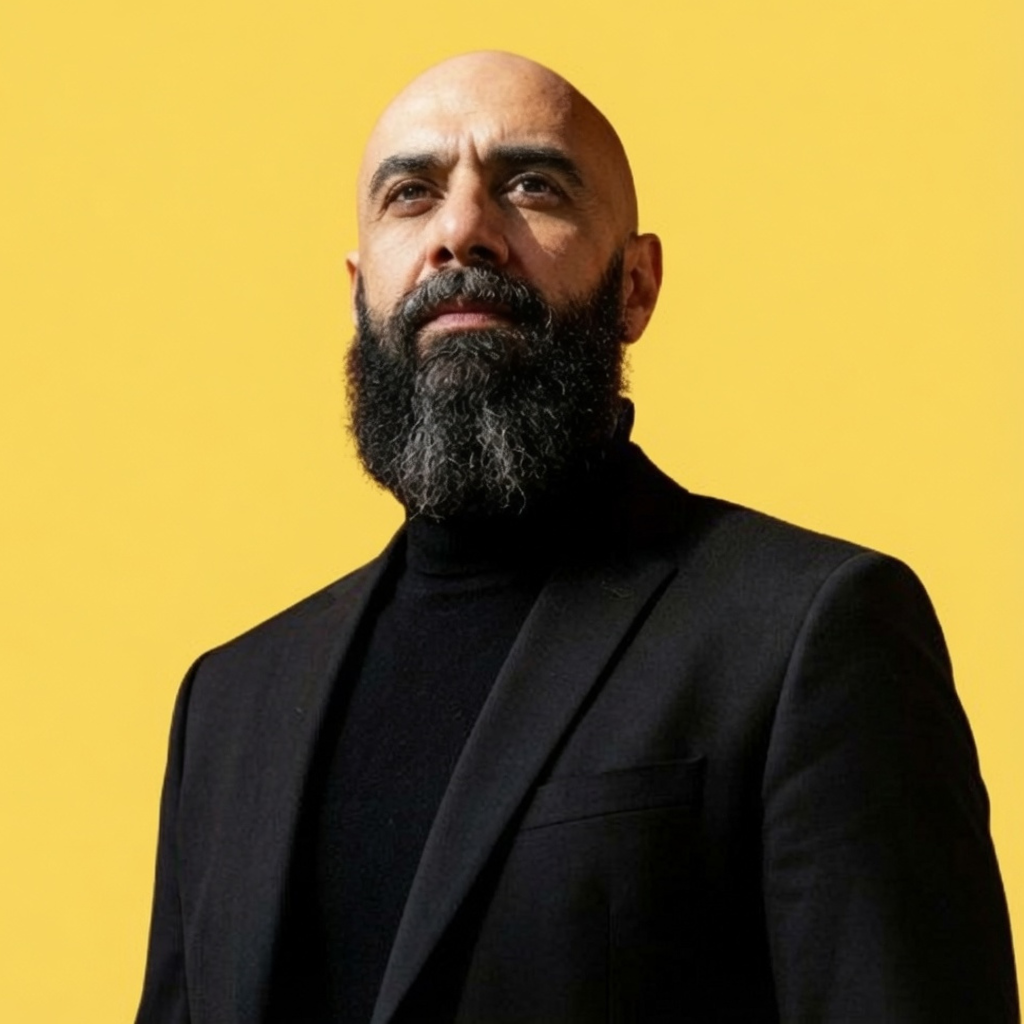
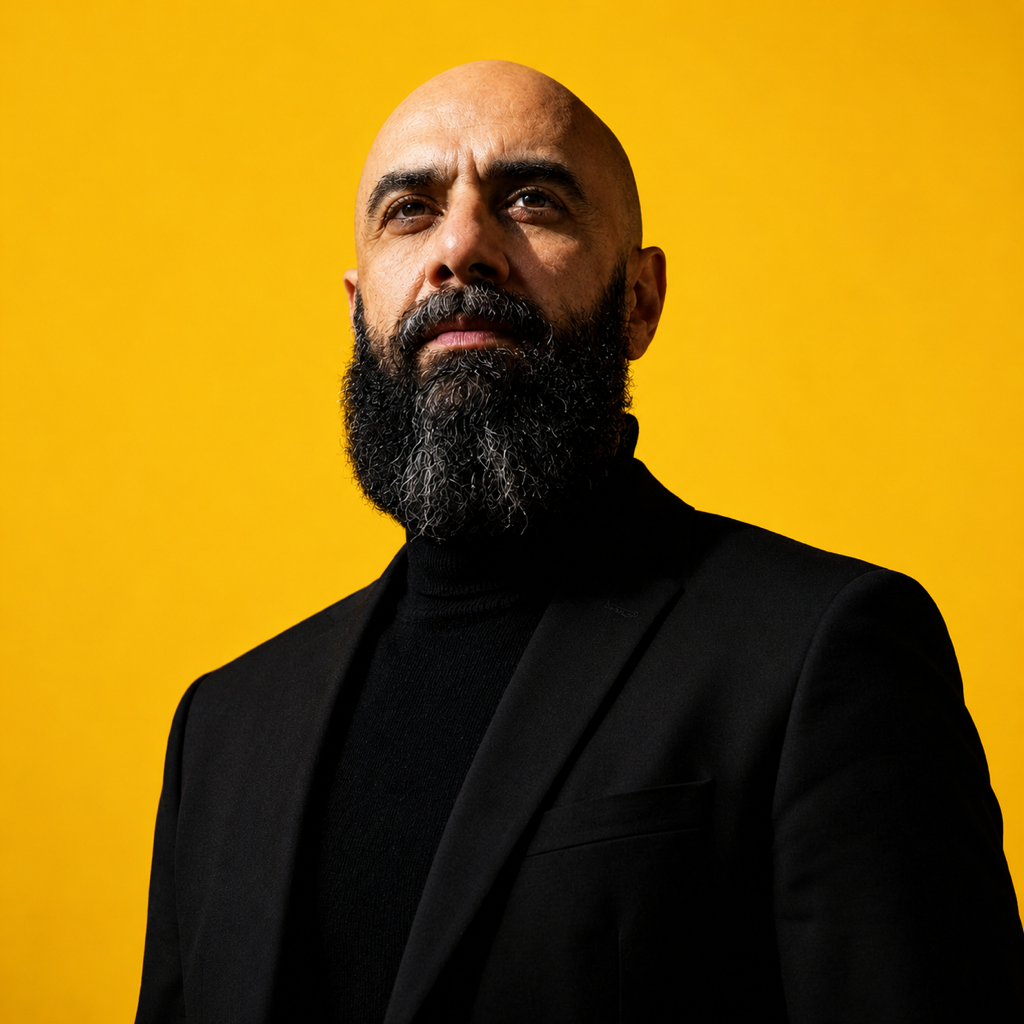
Add missing sameAs identifiers, update profile photo
Goodreads, SoundCloud, YouTube, Instagram, Threads, Facebook added to
Person schema.org sameAs on index and about pages. Profile photo
replaced with 2026 headshot.

diff --git a/about/index.html b/about/index.html
@@ -39,7 +39,13 @@
           "https://x.com/adrianmpeticila",
           "https://peticila.ro/",
           "https://www.producthunt.com/@adrian_m_peticila",
-          "https://www.crunchbase.com/person/adrian-peticila"
+          "https://www.crunchbase.com/person/adrian-peticila",
+          "https://www.goodreads.com/user/show/186180125-adrian-m-peticila",
+          "https://soundcloud.com/adrian-m-peticila",
+          "https://www.youtube.com/@adrianpeticila",
+          "https://www.instagram.com/adrian.peticila/",
+          "https://www.threads.com/@adrian.peticila",
+          "https://www.facebook.com/adrian.peticila/"
         ],
         "subjectOf": [
           {

diff --git a/index.html b/index.html
@@ -97,7 +97,13 @@
           "https://x.com/adrianmpeticila",
           "https://peticila.ro/",
           "https://www.producthunt.com/@adrian_m_peticila",
-          "https://www.crunchbase.com/person/adrian-peticila"
+          "https://www.crunchbase.com/person/adrian-peticila",
+          "https://www.goodreads.com/user/show/186180125-adrian-m-peticila",
+          "https://soundcloud.com/adrian-m-peticila",
+          "https://www.youtube.com/@adrianpeticila",
+          "https://www.instagram.com/adrian.peticila/",
+          "https://www.threads.com/@adrian.peticila",
+          "https://www.facebook.com/adrian.peticila/"
         ],
         "subjectOf": [
           {